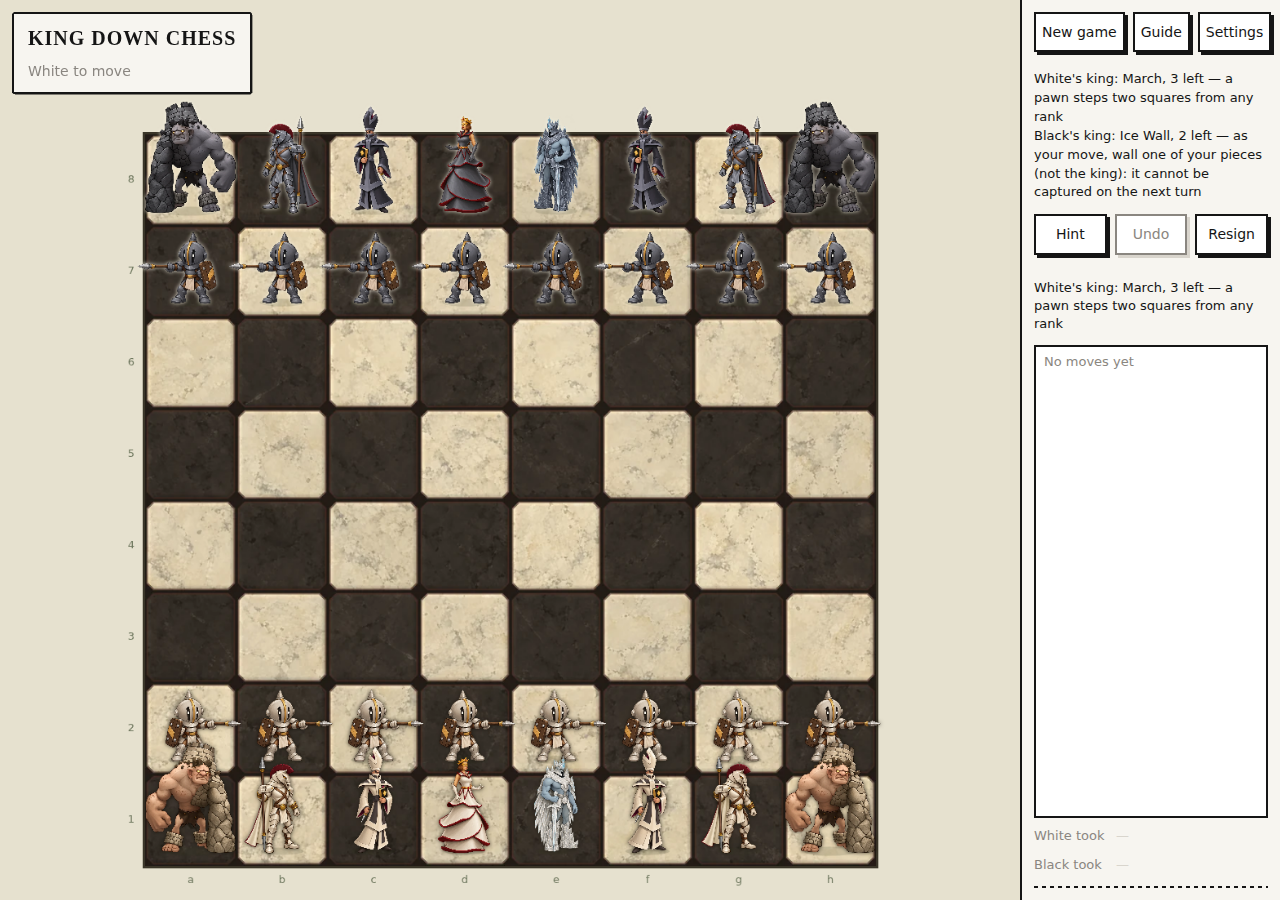
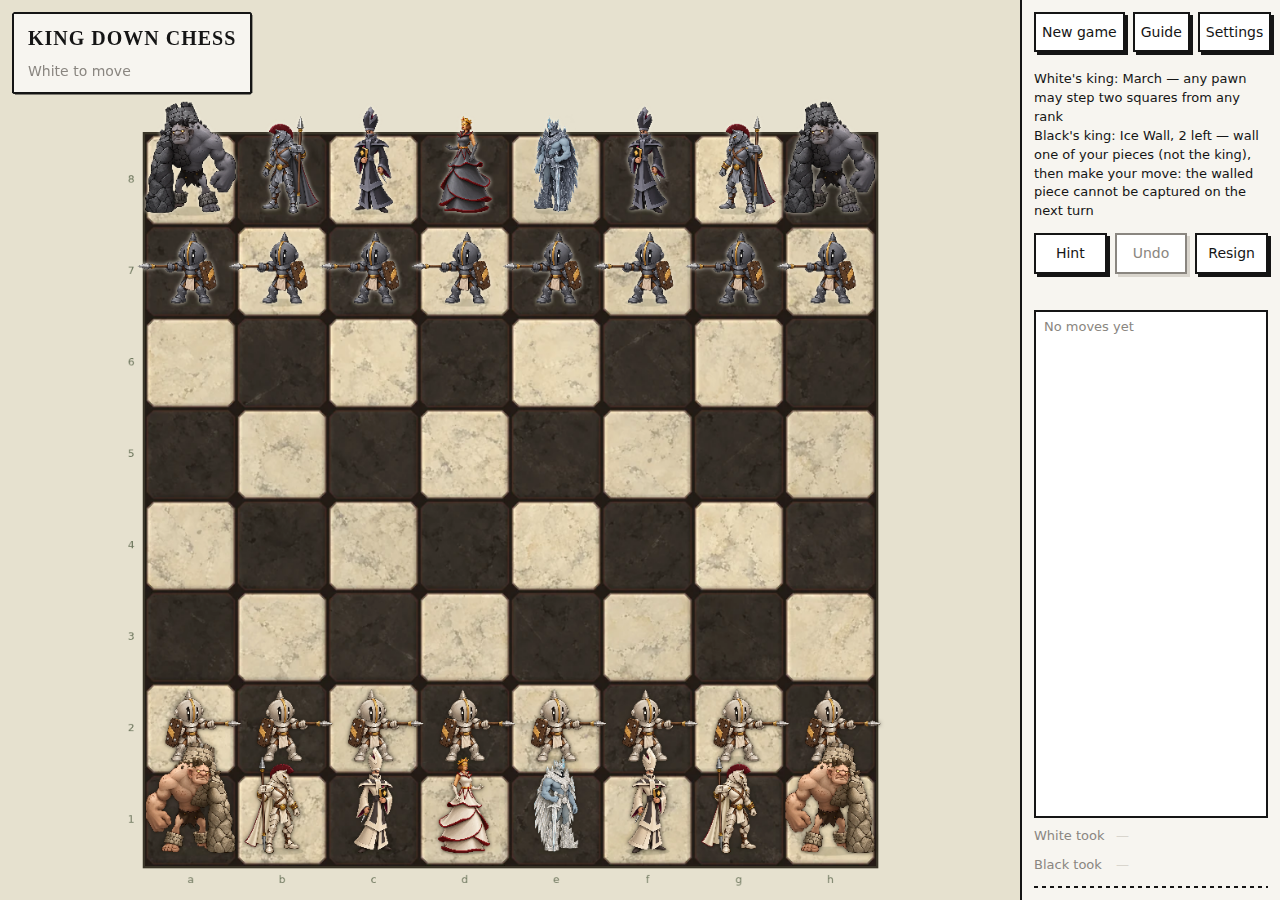
Kings' powers: the game plays the balanced readings; final report and RULES.md §4
- POWERS_BALANCED (rules.ts): Freeze and Ice Wall as a free action, Freeze once; Strike pieces
  only, to an empty square; Haste without captures; March always on; Holy Light takes pawns; Mercy
  shelters the pieces beside its king; Darkness pawns keep their straight steps. Applied whenever a
  king has a power (URL and New game); rule defaults and ?rules=2017 keep the rulebook as printed.
- verify-powers updated for the balanced rules (passes).
- Report: summary, final check on fresh armies (4,944 games) and depth 4; RULES.md §4 rewritten
  with both readings; TASKS.md.

Claude-Session: https://claude.ai/code/session_011ryHzW5rjkVp2uZYCoMqY4

Changed region(s): [[0.8125, 0.1244, 1.0, 0.4044], [0.8125, 0.0622, 0.9688, 0.1244]]

diff --git a/src/main.ts b/src/main.ts
@@ -9,7 +9,7 @@ import { keyMoments, momentKind, momentText, type KeyMoment } from './moment';
 import { setSound, snd } from './render/sfx';
 import { STYLES } from './render/styles';
 import { loadModels } from './render/voxels';
-import { A, B, C, Color, G, K, KINGS, L, LETTERS, M, Move, N, NAMES, O, P, PieceType, Position, Q, R, RULES as GAME_RULES, RULES_2017, RULES_2021, S, SPENT, T, V, colorOf, findKing, kingLabel, KingChoice, PowerName, parseKings, setRules, sqName, typeOf, type Rules } from './rules/engine';
+import { A, B, C, Color, G, K, KINGS, L, LETTERS, M, Move, N, NAMES, O, P, PieceType, Position, Q, R, POWERS_BALANCED, RULES as GAME_RULES, RULES_2017, RULES_2021, S, SPENT, T, V, colorOf, findKing, kingLabel, KingChoice, PowerName, parseKings, setRules, sqName, typeOf, type Rules } from './rules/engine';
 import { CLASSIC_CHESS, fromFen, POOL, randomBackRank, toFen, toLan } from './rules/setup';
 import { TRY_THESE } from './try-these';
 import { LESSONS } from './lessons';
@@ -25,7 +25,12 @@ const preset = { 2017: RULES_2017, 2021: RULES_2021 }[params.get('rules') ?? '']
  */
 const kings = params.get('kings');
 // Before the first Game: its constructor builds a position and asks for its status.
-if (preset || kings) setRules({ ...preset, ...(kings ? { kings: parseKings(kings) } : {}) });
+/** With any power in play, the balanced readings apply (an older `?rules=` preset still overrides them). */
+const withPowers = (k: Rules['kings']): Partial<Rules> => (k[0] || k[1] ? POWERS_BALANCED : {});
+if (preset || kings) {
+  const k = kings ? parseKings(kings) : undefined;
+  setRules({ ...(k ? withPowers(k) : {}), ...preset, ...(k ? { kings: k } : {}) });
+}
 /** "twice a game", "always on". */
 const usesText = (p: PowerName): string => {
   const n = usesAllowed(p);
@@ -795,7 +800,10 @@ const orient = (): void => view.flip(sides[0] === 'human' && sides[1] === 'human
 function newGame(backRank?: string, fen?: string | null, rematch = false, dailyDate: string | null = null): void {
   $<HTMLDialogElement>('new-game').close(); // every army choice in the dialog starts here
   reset();
-  if (!rematch) setRules({ ...preset, kings: [readPowerSelect($('power-white')), readPowerSelect($('power-black'))] });
+  if (!rematch) {
+    const k: Rules['kings'] = [readPowerSelect($('power-white')), readPowerSelect($('power-black'))];
+    setRules({ ...withPowers(k), ...preset, kings: k });
+  }
   resigned = null;
   linkSide = null;
   lesson = null; lessonDone = false;

diff --git a/src/rules/rules.ts b/src/rules/rules.ts
@@ -553,6 +553,23 @@ export const RULES_2021: Readonly<Rules> = Object.freeze({
   beastCapture: 'diagForward' as BeastCapture,
 });
 
+/**
+ * The kings' powers as balanced on 2026-10-02 (docs/research/kings-powers-balance-2026-10-02.md):
+ * the readings the game applies whenever a king has a power. The rule defaults stay the 2017
+ * rulebook's, so `?rules=2017` and the lab can still play the powers as printed.
+ */
+export const POWERS_BALANCED: Readonly<Partial<Rules>> = Object.freeze({
+  markFree: true,            // Freeze and Ice Wall: mark, then make your move
+  freezeUses: 1,             // Freeze once a game
+  hasteCaptures: false,      // Haste: neither move captures
+  strikePawns: false,        // Strike: pieces only
+  strikeCaptures: false,     // Strike: to an empty square
+  mercyAura: true,           // Mercy: the pieces next to the king cannot be taken
+  marchUses: 0,              // March: always on
+  holyLightTakesPawns: true, // Holy Light: the king may take pawns
+  darknessMoves: true,       // Darkness: pawns keep their straight steps
+});
+
 /** Reset to the defaults, then apply `over`. Call with no argument to restore today's rules. */
 export function setRules(over?: Partial<Rules>): Rules {
   Object.assign(RULES, DEFAULT_RULES, over);

diff --git a/src/rules/engine.ts b/src/rules/engine.ts
@@ -10,7 +10,7 @@
 
 import { ArcherShots, PowerName, RULES, Rules, USES_RULE } from './rules';
 export type { ArcherMove, ArcherShots, BeastCapture, BeastMove, CatapultCapture, GuardCaptures, KingChoice, KingName, OgreMode, OgreShoveFriends, PaladinKamikaze, PowerName, PromotionSet, Rules, StrikeMode } from './rules';
-export { BUILT, DEFAULT_RULES, KINGS, RULES, RULES_2017, RULES_2021, TIER1, USES_RULE, kingLabel, parseKing, parseKings, parseRule, ruleDiff, setRules } from './rules';
+export { BUILT, DEFAULT_RULES, KINGS, POWERS_BALANCED, RULES, RULES_2017, RULES_2021, TIER1, USES_RULE, kingLabel, parseKing, parseKings, parseRule, ruleDiff, setRules } from './rules';
 
 export type Color = 0 | 1;
 export const WHITE: Color = 0;

diff --git a/docs/RULES.md b/docs/RULES.md
@@ -49,32 +49,37 @@ Interactions decided in code (`canCapture`): a guard is taken only by a king; a 
 The attacker set used for check = every piece's capture pattern, so an archer checks through blockers and a paladin never checks.
 Design space by ability (arriving, shield, handicap, hopping, control, on-capture triggers) and by board zone (capital): `docs/MATRIX.md`.
 
-## 4. Kings' powers (six stateless powers plus Strike, off by default)
+## 4. Kings' powers (all twelve built; balanced readings when a king has a power)
 
-Each army has a king with two candidate powers; the player picks one after setup. Token-spending mechanics are ignored per project scope;
-when we enable powers we will decide per power whether it is "always on" or "N uses" — the six built
-powers are currently **always on** with no charge counter. Powers cannot capture a king nor give check/mate.
+Each army has a king with two candidate powers; each player picks one before the game (New game, or
+`?kings=frost:freeze,mud:march`). Token-spending mechanics are dropped; the rulebook's per-game use
+counts are plain counters (§6.5). Powers never capture a king and add no attacked square.
 
-**Implemented (lab, off by default; `?kings=<king>:<power>`):** the stateless tier-1 powers **Holy
-Light, Mercy, Death Touch, Darkness, March and Leap**, plus **Strike** (Flame A, tier 2): once per
-side per game, any own non-king piece moves as if it were a queen, as the whole turn. The piece
-keeps its own type (a striking pawn never promotes) and a strike never captures a king and is not
-an attack — `isAttacked` still sees only the piece's normal pattern. The one-use flag is game
-state: it lives on `Position.strike`, round-trips in FEN field 7 (`w`/`b`/`wb`, written only when
-spent), prints as a trailing `!` in LAN, and `parseKing` refuses the remaining five (they still need
-marks, charges or a reserve). The exact implemented semantics, the guide text, 21 targeted tests and
-the measured (or queued) campaign are in `docs/research/sim-kings-2026-09-16.md`; the material
-unresolved owner choices (Mercy vs guard immunity, the Death Touch verb, always-on vs charged
-March/Leap, adjacent Mercy kings, the Darkness evaluation confound) are listed there too.
+**Balanced on 2026-10-02** (`docs/research/kings-powers-balance-2026-10-02.md`): head-to-head
+round-robins of all twelve, at depth 3, over five rounds. As printed, the powers spread from 21% to
+80% against each other; the readings below bring nine of twelve within 42–56% (a 20-point spread).
+The game applies them whenever a king has a power (`POWERS_BALANCED` in `src/rules/rules.ts`); the
+rule defaults, `?rules=2017` and the lab keep the rulebook as printed. Every reading is one toggle.
 
-| King | Power A | Power B |
-|---|---|---|
-| Frost | **Freeze**: pick an enemy piece (not king); it cannot move during the opponent's next turn | **Ice Wall**: pick a friendly piece (not king); it cannot be captured during the opponent's next turn |
-| Flame | **Strike**: move any own piece (not king) as if it were a queen; counts as a turn — **built** | **Haste**: move one piece twice in a single turn |
-| Stratus | **Flight**: move any own piece (not king) to any empty square in own half (ranks 1–4); counts as a turn | **Sacrifice**: swap any own pawn with any own piece captured earlier; counts as a turn |
-| Mud | **March**: any pawn may move two forward (if unblocked) | **Leap**: own pieces may jump over own pawns when moving several squares |
-| Spirit | **Holy Light** (always on): king cannot be captured by enemy pawns and cannot capture pawns | **Mercy** (always on): king moves 1 or 2 squares in any direction, cannot capture, jumps friendly pieces |
-| Shadow | **Death Touch** (always on): king captures adjacent enemies without moving | **Darkness** (always on): own pawns move 1 diagonally and capture 1 straight forward; no double first move |
+| King | Power | As printed (2017 rulebook) | Balanced reading |
+|---|---|---|---|
+| Frost | **Freeze** (2 uses) | pick an enemy piece (not king); it cannot move during the opponent's next turn | a free action, then your move; **once** a game (`markFree`, `freezeUses: 1`) |
+| Frost | **Ice Wall** (2 uses) | pick a friendly piece (not king); it cannot be captured during the opponent's next turn | a free action, then your move (`markFree`) |
+| Flame | **Strike** (1 use) | move any own piece (not king) as if it were a queen; counts as a turn | pieces only (no pawns), to an empty square (`strikePawns: false`, `strikeCaptures: false`) |
+| Flame | **Haste** (1 use) | move one piece twice in a single turn | neither move captures (`hasteCaptures: false`) |
+| Stratus | **Flight** (1 use) | move any own piece (not king) to any empty square in own half; counts as a turn | as printed |
+| Stratus | **Sacrifice** (1 use) | swap any own pawn with any own piece captured earlier; counts as a turn | as printed |
+| Mud | **March** (3 uses) | any pawn may move two forward (if unblocked) | always on (`marchUses: 0`) |
+| Mud | **Leap** (3 uses) | own pieces may jump over own pawns when moving several squares | as printed |
+| Spirit | **Holy Light** (always on) | king cannot be captured by enemy pawns and cannot capture pawns | the king may take pawns (`holyLightTakesPawns`) |
+| Spirit | **Mercy** (always on) | king moves 1 or 2 squares in any direction, cannot capture, jumps friendly pieces | as printed, and **no piece next to the Mercy king can be captured** (`mercyAura`) |
+| Shadow | **Death Touch** (always on) | king captures adjacent enemies without moving | as printed |
+| Shadow | **Darkness** (always on) | own pawns move 1 diagonally and capture 1 straight forward; no double first move | pawns also keep their straight steps (double from the start); they still capture only straight ahead (`darknessMoves`) |
+
+Still outside 50 ± 4 in the final check: Mercy 62% and Haste 56% (high); Holy Light, Darkness, Death
+Touch and Ice Wall 42–45% (low). The other readings measured, and why they were not chosen, are in
+the report; the toggles stay in the lab. Earlier single-power measurements of the six always-on
+powers: `docs/research/sim-kings-2026-09-16.md`.
 
 ## 5. Card / spell effects (documented, not yet enabled)
 

diff --git a/docs/research/kings-powers-balance-2026-10-02.md b/docs/research/kings-powers-balance-2026-10-02.md
@@ -6,7 +6,43 @@ any power's rules and iterate until they are fairly well balanced.
 
 ## Summary
 
-*(Filled in when the last round is in.)*
+**The twelve powers went from a 59-point spread to about 20, and nine of the twelve now sit within
+42–56%** against the other powers (depth 3, 4,944 games on armies and openings never used for
+tuning). The game now plays the balanced readings whenever a king has a power (`POWERS_BALANCED`);
+the rulebook as printed stays available behind `?rules=2017`.
+
+| power | rulebook as printed | balanced reading | final check |
+|---|---|---|---|
+| Freeze | the whole turn, 2 a game — 41% | **free action, then your move; once a game** | 52% |
+| Ice Wall | the whole turn — 46% | **free action, then your move** (2 a game) | 45% |
+| Strike | any piece, takes — 78% | **pieces only, to an empty square** | 49% |
+| Haste | two moves, may take — 80% | **neither move takes** | 56% |
+| Flight | once — 44% | unchanged (a second use overshoots: 58%) | 49% |
+| Sacrifice | 57% | unchanged | 47% |
+| March | 3 a game — 46% | **always on** (shorter rule) | 47% |
+| Leap | 3 a game — 49% | unchanged | 48% |
+| Holy Light | pawns cannot take the king; it takes no pawns — 46% | **the king may take pawns** (shorter rule) | 42% |
+| Mercy | king steps 1–2, takes nothing — 21% | **as printed, and the pieces next to the king cannot be taken** | 62% |
+| Death Touch | 56% | unchanged | 44% |
+| Darkness | 38% | **pawns also keep their straight steps**, still take only straight ahead | 42% |
+
+**Still outside the target (50 ± 4):** Mercy is high (62%) and Haste a little high (56%); Holy Light,
+Darkness, Death Touch and Ice Wall are low (42–45%). No simple change measured in this pass closes
+those gaps without overshooting: Mercy without the shelter is the weakest power of all (21–37%), and
+Holy Light with the same shelter jumps to 60%. These are the owner's choices (below).
+
+**Depth matters.** A depth-4 check of the round-4 set (936 games) kept the order but widened the
+spread to 24 points: Mercy, Flight with two uses and Sacrifice near 59%, Holy Light 36%. Balance
+measured by a computer player is a guide for people, not a guarantee.
+
+**For the owner:**
+1. Adopt the balanced readings as the mode's rules (they are the game's default for powers in this
+   PR), or keep any power as printed — each is one toggle.
+2. Mercy: keep the shelter (strong, 62%), or try a lighter version later. Holy Light: accept 42%, or
+   give it the shelter too (60%) and lighten Mercy.
+3. Freeze and Ice Wall as a free action is a rulebook reading, not a change: the rulebook marks only
+   Strike, Flight and Sacrifice "counts as a turn". Strike "pieces only" likewise reads "piece" as
+   the rulebook's Sacrifice text uses it (a pawn is not a piece).
 
 ## What was built
 
@@ -194,3 +230,36 @@ second Strike overshoots. Holy Light is the one power still clearly low.
 The final check (below) plays the round-4 base on fresh armies and openings (seed 303, 24 pairs),
 with two last readings beside it — Flight once again, now that the field has moved, and Holy Light
 with Mercy's shelter — and a depth-4 run of the base set.
+
+## Final check — fresh armies, and depth 4
+
+The round-4 base (with Flight back to one use beside two, and Holy Light with Mercy's shelter as a
+variant), seed 303 (armies and openings not used in rounds 1–4), 24 pairs, depth 3: 4,944 games.
+
+| entrant | vs powers | decisive |
+|---|---|---|
+| Mercy + shelter | 61.9 ± 3.6 | 83.6% |
+| Holy Light + shelter (variant) | 59.7 ± 3.5 | 81.4% |
+| Flight twice | 58.3 ± 3.8 | 90.4% |
+| Haste, no captures | 55.9 ± 3.7 | 87.6% |
+| Freeze, one free use | 52.2 ± 3.7 | 89.6% |
+| Strike, pieces only, no captures | 49.4 ± 3.7 | 87.2% |
+| **Flight once (the rulebook)** | **49.0 ± 3.7** | 84.8% |
+| Leap | 48.2 ± 3.8 | 86.2% |
+| March | 46.7 ± 3.7 | 88.1% |
+| Sacrifice | 46.6 ± 3.7 | 87.8% |
+| Ice Wall | 44.6 ± 3.5 | 86.5% |
+| Death Touch | 43.6 ± 3.5 | 82.3% |
+| Holy Light, takes pawns | 42.3 ± 3.5 | 84.5% |
+| Darkness, straight steps kept | 42.2 ± 3.7 | 93.8% |
+| *plain king* | 38.5 ± 3.2 | 84.8% |
+
+White's first-move edge: −1 ± 10 Elo. Games stay sharp: 82–94% decisive, about 95 plies.
+
+On fresh positions **Flight goes back to the rulebook's one use** (49%); two uses overshoot. Mercy's
+shelter is stronger here than in round 4 (62 against 56). The depth-4 run (round-4 set, seed 404, 6
+pairs, 936 games) ordered the powers the same way with a wider spread: Mercy 60, Flight twice 59,
+Sacrifice 59, Haste 56, Strike 56, Freeze 55, Leap 51, Ice Wall 44, March 42, Death Touch 41,
+Darkness 41, Holy Light 36 (each ±6–8).
+
+Raw games: `claude/kp2-results-*` branches (`sim/out/*.jsonl`); reports and specs in `sim/out/`.

diff --git a/sim/out/kp2-r5.report.md b/sim/out/kp2-r5.report.md
@@ -1,0 +1,49 @@
+# Kings' powers tournament: kp2-r5
+
+4944 games, depth 3, 15 entrants. Rules: `{"markFree":true,"freezeUses":1,"hasteCaptures":false,"strikeCaptures":false,"strikePawns":false,"flightUses":2,"mercyAura":true,"marchUses":0,"holyLightTakesPawns":true,"darknessMoves":true}`.
+
+Variants: `~vonce` = `{"flightUses":1}`, `~vshelter` = `{"holyLightShelter":true}`. A variant does not meet an entrant whose power its rules would change.
+
+First move: White -1 ± 10 Elo.
+
+| power | Elo (BT) | ±95% | score vs field | ±95% | vs powers | ±95% | games | used / game | games used | first use (ply, median) | decisive | draws | plies |
+|---|---|---|---|---|---|---|---|---|---|---|---|---|---|
+| Mercy | +85 | 26 | 62.6% | 3.5 | 61.9% | 3.6 | 672 | 0.00 | 0.0% | - | 83.6% | 16.4% | 101 |
+| HolyLight~vshelter | +71 | 26 | 60.1% | 3.4 | 59.7% | 3.5 | 624 | 0.00 | 0.0% | - | 81.4% | 18.6% | 106 |
+| Flight | +64 | 26 | 59.6% | 3.6 | 58.3% | 3.8 | 624 | 1.78 | 95.0% | 16 | 90.4% | 9.6% | 94 |
+| Haste | +47 | 25 | 57.1% | 3.6 | 55.9% | 3.7 | 672 | 0.79 | 79.3% | 48 | 87.6% | 12.4% | 94 |
+| Freeze | +23 | 25 | 53.4% | 3.6 | 52.2% | 3.7 | 672 | 0.97 | 96.7% | 19 | 89.6% | 10.4% | 91 |
+| Strike | +2 | 25 | 50.3% | 3.5 | 49.4% | 3.7 | 672 | 0.70 | 69.8% | 41 | 87.2% | 12.8% | 91 |
+| Flight~vonce | -2 | 26 | 50.4% | 3.5 | 49.0% | 3.7 | 624 | 0.96 | 96.2% | 17 | 84.8% | 15.2% | 95 |
+| Leap | -8 | 25 | 48.7% | 3.6 | 48.2% | 3.8 | 672 | 1.01 | 59.4% | 24 | 86.2% | 13.8% | 98 |
+| March | -18 | 25 | 47.3% | 3.6 | 46.7% | 3.7 | 672 | 0.00 | 0.0% | - | 88.1% | 11.9% | 92 |
+| Sacrifice | -20 | 25 | 47.0% | 3.6 | 46.6% | 3.7 | 672 | 0.93 | 93.0% | 20 | 87.8% | 12.2% | 98 |
+| IceWall | -29 | 25 | 45.6% | 3.4 | 44.6% | 3.5 | 672 | 1.67 | 89.3% | 30 | 86.5% | 13.5% | 105 |
+| DeathTouch | -37 | 25 | 44.4% | 3.3 | 43.6% | 3.5 | 672 | 0.00 | 0.0% | - | 82.3% | 17.7% | 103 |
+| Darkness | -47 | 25 | 43.0% | 3.6 | 42.2% | 3.7 | 672 | 0.00 | 0.0% | - | 93.8% | 6.3% | 86 |
+| HolyLight | -53 | 26 | 42.7% | 3.3 | 42.3% | 3.5 | 624 | 0.00 | 0.0% | - | 84.5% | 15.5% | 98 |
+| none | -77 | 25 | 38.5% | 3.2 | 38.5% | 3.2 | 672 | 0.00 | 0.0% | - | 84.8% | 15.2% | 98 |
+
+Against the other powers: 6 of 14 inside 50 ± 4 points; spread 19.6 points. Outside: Mercy 61.9%, HolyLight~vshelter 59.7%, Flight 58.3%, Haste 55.9%, IceWall 44.6%, DeathTouch 43.6%, Darkness 42.2%, HolyLight 42.3%.
+
+## Matchups (row power's score against the column power)
+
+| | Mercy | HolyLight~vshelter | Flight | Haste | Freeze | Strike | Flight~vonce | Leap | March | Sacrifice | IceWall | DeathTouch | Darkness | HolyLight | none |
+|---|---|---|---|---|---|---|---|---|---|---|---|---|---|---|---|
+| **Mercy** | — | 50 | 49 | 51 | 63 | 76 | 61 | 66 | 52 | 64 | 71 | 72 | 64 | 67 | 73 |
+| **HolyLight~vshelter** | 50 | — | 54 | 60 | 50 | 61 | 69 | 67 | 63 | 51 | 59 | 69 | 64 |  | 65 |
+| **Flight** | 51 | 46 | — | 52 | 52 | 53 |  | 50 | 71 | 65 | 63 | 66 | 68 | 65 | 75 |
+| **Haste** | 49 | 40 | 48 | — | 52 | 54 | 57 | 63 | 61 | 54 | 63 | 58 | 59 | 69 | 72 |
+| **Freeze** | 38 | 50 | 48 | 48 | — | 41 | 61 | 58 | 55 | 48 | 63 | 54 | 52 | 64 | 69 |
+| **Strike** | 24 | 39 | 47 | 46 | 59 | — | 49 | 52 | 55 | 42 | 61 | 55 | 56 | 57 | 61 |
+| **Flight~vonce** | 39 | 31 |  | 43 | 39 | 51 | — | 43 | 61 | 57 | 55 | 61 | 50 | 58 | 67 |
+| **Leap** | 34 | 33 | 50 | 38 | 42 | 48 | 57 | — | 51 | 47 | 63 | 47 | 66 | 52 | 55 |
+| **March** | 48 | 38 | 29 | 39 | 45 | 45 | 39 | 49 | — | 53 | 53 | 46 | 66 | 59 | 55 |
+| **Sacrifice** | 36 | 49 | 35 | 46 | 52 | 58 | 43 | 53 | 47 | — | 45 | 48 | 47 | 46 | 53 |
+| **IceWall** | 29 | 41 | 38 | 38 | 38 | 39 | 45 | 38 | 47 | 55 | — | 57 | 61 | 55 | 59 |
+| **DeathTouch** | 28 | 31 | 34 | 42 | 46 | 45 | 39 | 53 | 54 | 52 | 43 | — | 47 | 53 | 55 |
+| **Darkness** | 36 | 36 | 32 | 41 | 48 | 44 | 50 | 34 | 34 | 53 | 39 | 53 | — | 48 | 53 |
+| **HolyLight** | 33 |  | 35 | 31 | 36 | 43 | 42 | 48 | 41 | 54 | 45 | 47 | 52 | — | 48 |
+| **none** | 27 | 35 | 25 | 28 | 31 | 39 | 33 | 45 | 45 | 47 | 41 | 45 | 47 | 52 | — |
+
+Endings: adjudicatedResign 86.6%, adjudicatedDraw 8.9%, drawRepetition 2.7%, draw50 0.8%, plyCap 0.7%, drawMaterial 0.3%, checkmate 0.0%, stalemate 0.0%.

diff --git a/TASKS.md b/TASKS.md
@@ -8,7 +8,9 @@
 - [x] The computer plays every power (power moves at plies 0–2, Haste's second move inside the turn, a holding value per unspent use). Search 4–5× faster with identical node counts (precomputed attack geometry, legality tested only for moves that can expose the king).
 - [x] Game: New game picks a power per king; Use arms it, End turn closes a Haste turn early; the Guide lists the twelve. `tools/verify-powers.mjs` passes (Freeze, Haste, Haste ended early, Sacrifice, Flight, always-on, New game, phone).
 - [x] Tournament runner (`src/sim/tournament.ts`): round-robin, colour-swapped pairs on common armies and openings, Bradley–Terry ratings with a first-move term, sharding for cloud compute. Playtest review: `tools/kings-playtest.ts`.
-- [ ] Balance rounds and the report: `docs/research/kings-powers-balance-2026-10-02.md`.
+- [x] Balance: five rounds of head-to-head round-robins at depth 3 (about 21,000 games on cloud shards) plus a depth-4 check. As printed the powers spread 21–80%; the balanced readings (`POWERS_BALANCED`, applied by the game whenever a king has a power) bring nine of twelve within 42–56% on fresh armies. Still outside 50 ± 4: Mercy 62%, Haste 56% high; Holy Light, Darkness, Death Touch, Ice Wall 42–45% low — owner choices in the report. Report: `docs/research/kings-powers-balance-2026-10-02.md`; RULES.md §4 rewritten.
+- Browser checks on this branch: `verify-powers` (updated for the balanced rules), `verify-lesson-return` and `verify-painted-game` pass. `verify-special-moves`, `verify-cursor-adoption`, `verify-playable-clay` and `qa` time out in this cloud container on main's build too (slow software WebGL); not caused by this branch.
+- Merging with the three improvement branches: trial merges conflict in `src/main.ts` (perf, visual), `index.html` (visual) and TASKS/LESSONS (all) — small; resolve after the owner picks an order.
 
 ## Claude continuation: lessons protect the current game — 2026-09-29
 - Recovered session `01010c18-3283-4331-92dc-4f6696baa502` ("Continue improving the King Down game"). It ended normally after eight improvements, all uncommitted in this checkout. Main is clean and two commits behind this checkout. Preserve the inherited work; do not commit or publish.
